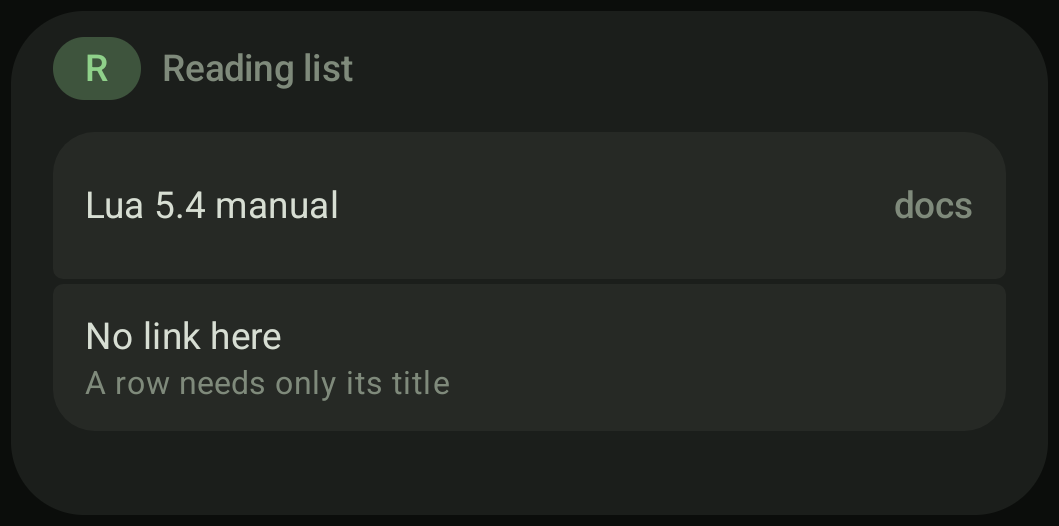
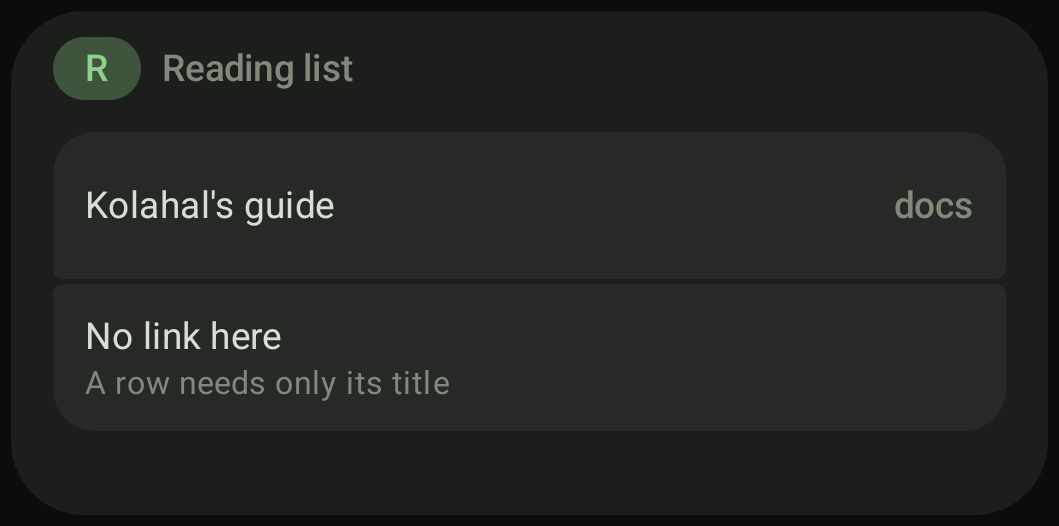
Docs: one list example in both tabs, the second logs call
The list example has the same rows in Lua and JavaScript, the logs
picture shows both calls, and the first log picture says it is the Lua
code's lines.

Changed region(s): [[0.0623, 0.365, 0.3428, 0.4259]]

diff --git a/app/src/androidTest/java/com/mtwabpin/kolahal/ui/DocsExamples.kt b/app/src/androidTest/java/com/mtwabpin/kolahal/ui/DocsExamples.kt
@@ -64,7 +64,7 @@ object DocsExamples {
             widget.show{
               title = "Reading list",
               items = {
-                { title = "Lua 5.4 manual", trailing = "docs", tap = { url = "https://www.lua.org/manual/5.4/" } },
+                { title = "Kolahal's guide", trailing = "docs", tap = { url = "https://mtwabpin.github.io/kolahal/" } },
                 { title = "No link here", detail = "A row needs only its title" },
               },
               empty = "Nothing to read",
@@ -205,6 +205,7 @@ object DocsExamples {
             "logs",
             """
             logs({ "milk", "bread", "eggs" })
+            logs("milk", "bread")
             """,
         ),
         Log(
